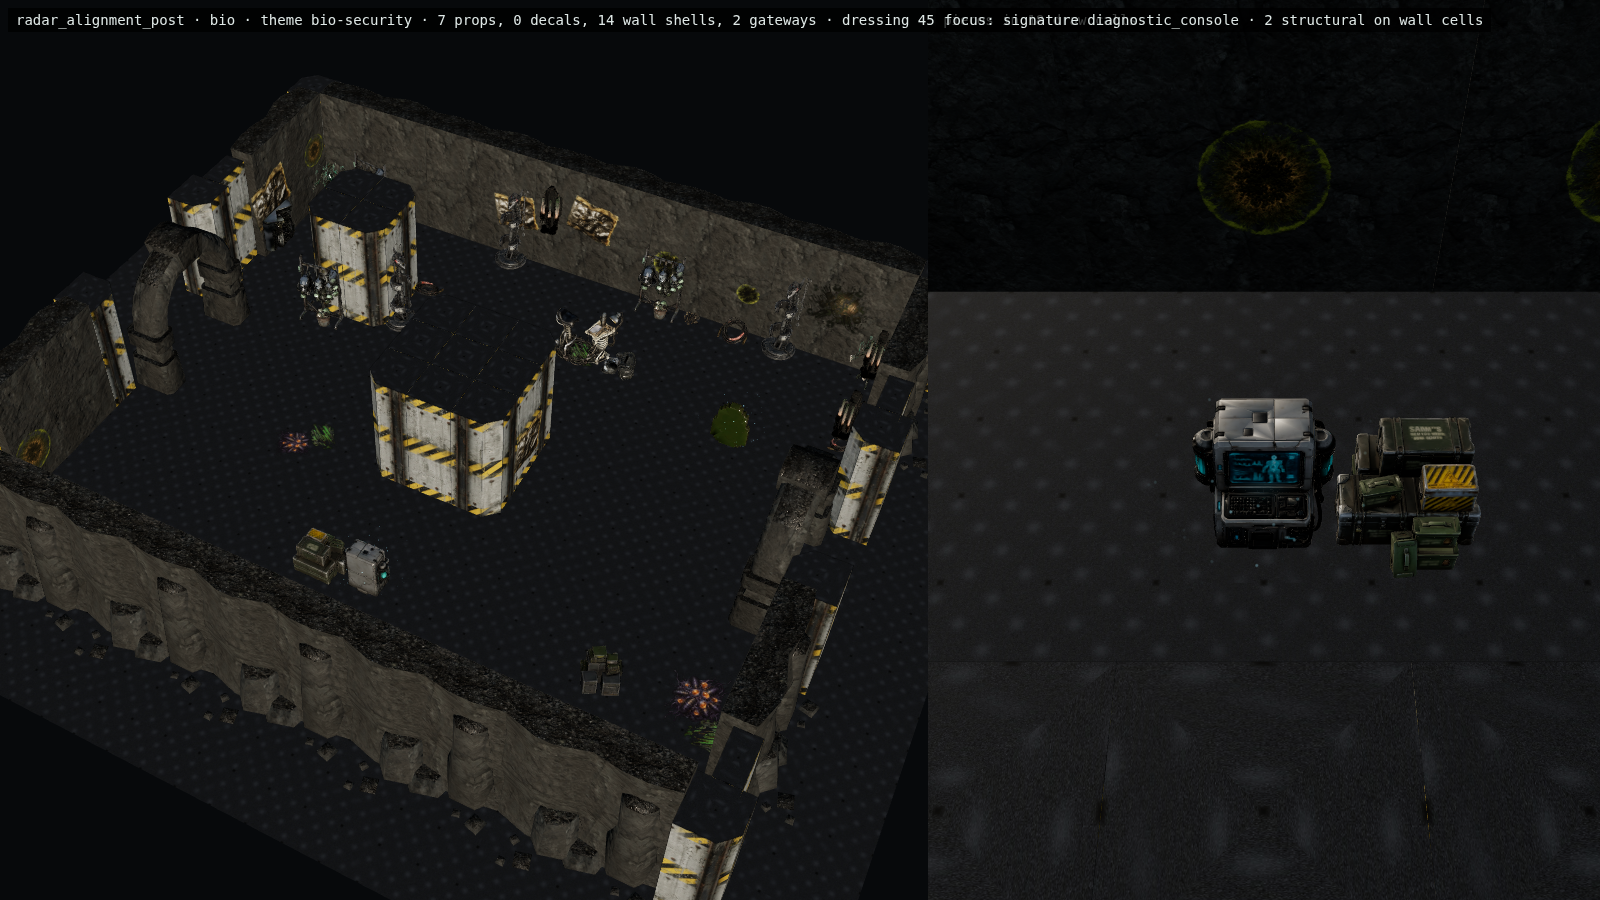
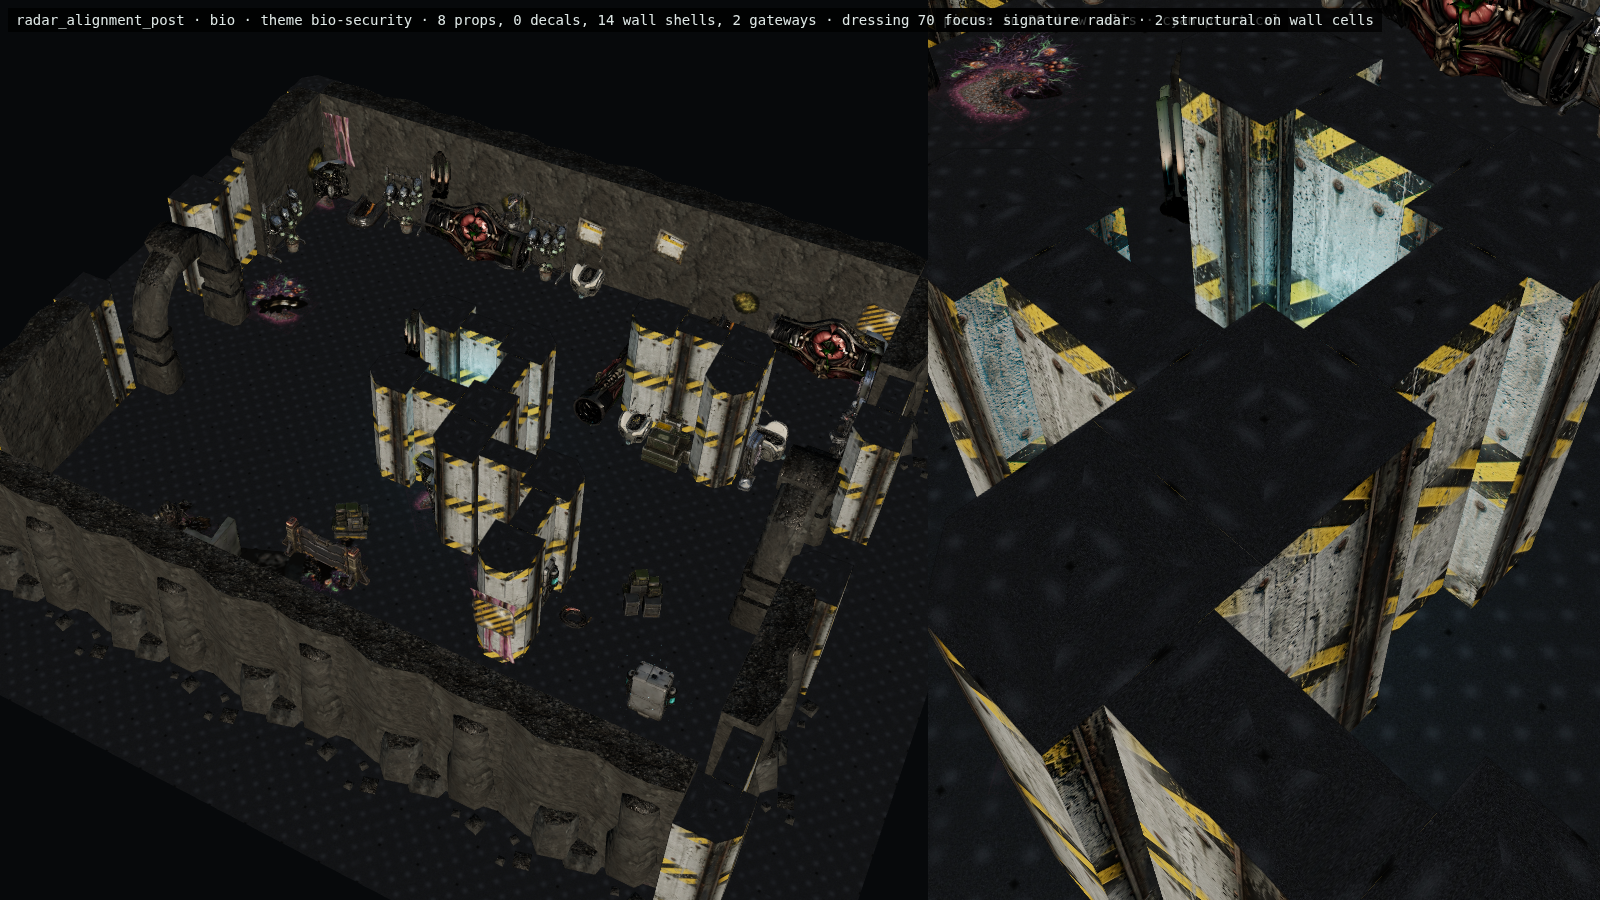
feat(levels): turn radar post into a calibration court

diff --git a/src/data/roomBuilds.js b/src/data/roomBuilds.js
@@ -616,9 +616,24 @@ export const ROOM_BUILD_CATALOG = Object.freeze([
         family: 'security',
         themeStyle: 'substation',
         partitionThickness: 0.5,
-        // One central mast block: sightlines stay open all the way round it,
-        // which is what makes the defend-the-console beat readable.
-        pattern: rectRoomPattern(15, 13, [{ x: 6, y: 5, w: 3, h: 3 }, { x: 2, y: 2, w: 2, h: 2 }]),
+        // P2 alignment proof: the west threshold looks straight into the
+        // dish pedestal, while unequal calibration banks peel north and
+        // south around it. Both routes permanently rejoin at the east exit.
+        pattern: authoredRoomPattern([
+            '...............',
+            '...............',
+            '...............',
+            '..........###..',
+            '............#..',
+            '......###......',
+            '........#......',
+            '......###......',
+            '........###....',
+            '..........#....',
+            '..........#....',
+            '...............',
+            '...............'
+        ]),
         sockets: [
             { id: 'entry', side: 'w', width: 3, required: true },
             { id: 'maintenanceExit', side: 'e', width: 3, required: false }
@@ -627,26 +642,35 @@ export const ROOM_BUILD_CATALOG = Object.freeze([
         tierEligibility: [3, 4],
         biomeEligibility: ['active', 'cryo', 'bio'],
         roles: ['objective', 'defense'],
+        signatureAnchors: [
+            // The radar stands in the open mouth of a C-shaped plinth: its
+            // back wall stops the direct route without swallowing the GLB.
+            { id: 'mast_base', type: 'radar', x: 7, y: 6, blocking: true }
+        ],
         structuralAnchors: [
-            { id: 'mast_base', type: 'prop_cyber_junction', x: 7, y: 6 },
-            { id: 'post_locker', type: 'prop_security_locker', x: 2, y: 2 }
+            { id: 'post_locker', type: 'prop_security_locker', x: 11, y: 3 },
+            { id: 'calibration_bank', type: 'prop_cyber_junction', x: 10, y: 9 }
         ],
         // MANDATORY_SHIP_GOALS radarNode -> objectiveAnchorId, exactly.
         interactionAnchors: [
-            { id: 'radar_alignment_console', type: 'prop_diagnostic_console', x: 7, y: 10 },
-            { id: 'post_terminal', type: 'prop_terminal_ruptured', x: 12, y: 3 }
+            { id: 'radar_alignment_console', type: 'prop_diagnostic_console', x: 13, y: 10 },
+            { id: 'post_terminal', type: 'prop_terminal_ruptured', x: 10, y: 2 }
         ],
-        signatureAnchorId: 'radar_alignment_console',
+        signatureAnchorId: 'mast_base',
         compassAnchors: { approach: 'entry', objective: 'radar_alignment_console' },
-        coverZones: [{ x: 5, y: 4, w: 5, h: 5 }],
-        encounterZones: [
-            { id: 'north_approach', x: 3, y: 1, w: 9, h: 3 },
-            { id: 'south_approach', x: 3, y: 9, w: 9, h: 3 }
+        coverZones: [
+            { x: 5, y: 4, w: 5, h: 5 },
+            { x: 9, y: 2, w: 5, h: 3 },
+            { x: 8, y: 8, w: 4, h: 3 }
         ],
-        rewardAnchors: [{ id: 'post_ammo', type: 'prop_ammo_crate_stack', x: 12, y: 10 }],
+        encounterZones: [
+            { id: 'north_approach', x: 3, y: 1, w: 7, h: 4 },
+            { id: 'south_approach', x: 3, y: 8, w: 7, h: 4 }
+        ],
+        rewardAnchors: [{ id: 'post_ammo', type: 'prop_ammo_crate_stack', x: 12, y: 8 }],
         loreAnchors: [],
         hazardZones: [],
-        quietZones: [],
+        quietZones: [{ x: 11, y: 8, w: 4, h: 5 }],
         safeZone: false,
         containmentBounds: { minX: 0, minY: 0, maxX: 14, maxY: 12 },
         presentationVariants: ['intact', 'abandoned', 'infested', 'looted'],

diff --git a/src/roomBuilds.test.js b/src/roomBuilds.test.js
@@ -137,6 +137,51 @@ describe('ROOM_BUILD_CATALOG', () => {
         expect(build.quietZones[0]).toMatchObject({ x: 12, y: 1, w: 5, h: 7 });
     });
 
+    it('turns the radar post into a sightline court with two calibration routes', () => {
+        const build = ROOM_BUILD_CATALOG.find((entry) => entry.id === 'radar_alignment_post');
+        expect(build.pattern).toEqual([
+            '...............',
+            '...............',
+            '...............',
+            '..........###..',
+            '............#..',
+            '......###......',
+            '........#......',
+            '......###......',
+            '........###....',
+            '..........#....',
+            '..........#....',
+            '...............',
+            '...............'
+        ]);
+        const approach = computeApproachPoint(build);
+        const dishThreshold = { x: 7, y: 6 };
+        const console = { x: 13, y: 10 };
+        const exit = { x: 14, y: 6 };
+        const northCrossing = new Set(Array.from({ length: 5 }, (_, y) => `7,${y}`));
+        const southCrossing = new Set(Array.from({ length: 5 }, (_, offset) => `7,${offset + 8}`));
+        expect(approach).toEqual({ x: 2, y: 6 });
+        expect(shortestPatternPath(build.pattern, approach, dishThreshold)).toBe(5);
+        expect(shortestPatternPath(build.pattern, approach, console, northCrossing)).toBeLessThan(Infinity);
+        expect(shortestPatternPath(build.pattern, approach, console, southCrossing)).toBeLessThan(Infinity);
+        expect(shortestPatternPath(build.pattern, console, exit)).toBeLessThan(Infinity);
+        expect(build.signatureAnchors).toEqual([
+            expect.objectContaining({ id: 'mast_base', type: 'radar', x: 7, y: 6, blocking: true })
+        ]);
+        expect(build.structuralAnchors).toEqual(expect.arrayContaining([
+            expect.objectContaining({ id: 'post_locker', x: 11, y: 3 }),
+            expect.objectContaining({ id: 'calibration_bank', x: 10, y: 9 })
+        ]));
+        expect(build.structuralAnchors.every((anchor) => build.pattern[anchor.y][anchor.x] === '#')).toBe(true);
+        expect(build.interactionAnchors).toEqual(expect.arrayContaining([
+            expect.objectContaining({ id: 'radar_alignment_console', x: 13, y: 10 }),
+            expect.objectContaining({ id: 'post_terminal', x: 10, y: 2 })
+        ]));
+        expect(build.rewardAnchors[0]).toMatchObject({ id: 'post_ammo', x: 12, y: 8 });
+        expect(build.signatureAnchorId).toBe('mast_base');
+        expect(build.quietZones[0]).toMatchObject({ x: 11, y: 8, w: 4, h: 5 });
+    });
+
     it('uses the medical P0A proof to create a reveal pivot and supply-side loop', () => {
         const build = ROOM_BUILD_CATALOG.find((entry) => entry.id === 'medical_triage');
         expect(build.pattern).toEqual([

diff --git a/tests/e2e/probes/p2-radar-alignment-gameplay-camera.spec.js b/tests/e2e/probes/p2-radar-alignment-gameplay-camera.spec.js
@@ -1,0 +1,19 @@
+import { test, expect } from '@playwright/test';
+
+// P2 alignment proof: the early dish sightline, unequal calibration banks,
+// protected control and permanent north/south routes must survive rotation.
+for (let rotation = 0; rotation < 4; rotation += 1) {
+    test(`P2 radar alignment game camera — R${rotation}`, async ({ page }) => {
+        await page.setViewportSize({ width: 1600, height: 900 });
+        await page.goto(`/tests/e2e/fixtures/furnished-room-showroom.html?build=radar_alignment_post&biome=active&review=gameplay&rotation=${rotation}`);
+        await page.waitForFunction(() => window.__showroom?.ready === true, null, { timeout: 90_000 });
+        const result = await page.evaluate(() => window.__showroom);
+        expect(result.reviewMode).toBe(true);
+        expect(result.rotation).toBe(rotation);
+        expect(result.cutawayCells).toBeGreaterThan(0);
+        expect(result.props + result.decals).toBeGreaterThan(0);
+        await page.screenshot({
+            path: `docs/reports/assets/furnished-rooms/p2-radar_alignment_post-game-camera-r${rotation}.png`
+        });
+    });
+}

diff --git a/src/anchorPracticalLight.js b/src/anchorPracticalLight.js
@@ -19,7 +19,7 @@ export const ANCHOR_LIGHT_PALETTE = Object.freeze({
 
 // First match wins; cyan before green so a "biomech oxygen" piece reads cold.
 const PALETTE_RULES = Object.freeze([
-    { palette: 'cyan', match: /oxygen|coolant|cryo|o2_|frost|icey|thermal|water_still|medical_bed|tesla_coil|fabricator|cyber_junction/ },
+    { palette: 'cyan', match: /oxygen|coolant|cryo|o2_|frost|icey|thermal|water_still|medical_bed|tesla_coil|fabricator|cyber_junction|radar/ },
     { palette: 'warning', match: /reactor_vent_control|valve_wheel_fused|false_cache|laser_trap|trap_emitter/ },
     { palette: 'amber', match: /reward_vault|lectern|votive|shrine|reliquary|saint|liturgical|candle|barrel_heater|flood_lamp|pheromone_censer|scent_distiller|warmth_hearth|checkpoint_post|wayfinding_totem|seismic_drill|devotion_tree|meat_smoking_rack|pipe_organ_heat_exchanger|ammo_crate/ },
     { palette: 'green', match: /biomech|spore|fungal|hive|flesh|umbilical|alien|incubator|mycelium/ }

diff --git a/src/anchorPracticalLight.test.js b/src/anchorPracticalLight.test.js
@@ -14,6 +14,7 @@ describe('anchor practical light (lived-in world M4)', () => {
         expect(anchorPaletteFor('prop_tesla_coil_node')).toBe('cyan');
         expect(anchorPaletteFor('prop_fabricator_workstation')).toBe('cyan');
         expect(anchorPaletteFor('prop_cyber_junction')).toBe('cyan');
+        expect(anchorPaletteFor('radar')).toBe('cyan');
         expect(anchorPaletteFor('false_cache prop_bunker_supplies')).toBe('warning');
         expect(anchorPaletteFor('prop_laser_trap_emitter')).toBe('warning');
         expect(anchorPaletteFor('reactor_vent_control prop_valve_wheel_fused')).toBe('warning');

diff --git a/docs/planning/n64-architectural-level-design-overhaul-2026-10-10.md b/docs/planning/n64-architectural-level-design-overhaul-2026-10-10.md
@@ -798,10 +798,29 @@ gantry model, whose armor-charge semantics are not a fabrication controller. The
 acknowledge interaction and glow, but it does not drive either stand-in; the engineering bench also
 visually aliases the workstation. Dedicated future press art may move only a vertical ram or
 contained carriage within the obstruction footprint, with bounded sparks, sound, and work-light
-changes. Nothing may sweep into the process lane or change collision. Next flat P2 candidate:
-`radar_alignment_post`; `ring_crossing_landmark` remains a detached progression proof.
+changes. Nothing may sweep into the process lane or change collision.
 
-### 9.6.7 Authored-geometry persistence gate
+### 9.6.7 Lane A P2: radar calibration court
+
+`radar_alignment_post` is the sixth P2 spatial proof. Its west entry now promises an actual
+`radar` GLB in the open mouth of a C-shaped plinth. The back of that plinth blocks the direct line
+to the east exit without hiding the model, forcing unequal north and south calibration arcs. The
+short northern arc reveals the damaged terminal and retained locker rail; the southern arc bends
+behind an L-shaped bank into the mandatory `radar_alignment_console`, ammo reveal, and quiet return
+strip. Both routes remain permanently open and rejoin at `maintenanceExit`. Exact-pattern tests
+pin the dish sightline, preserved anchor IDs, both forced routes, all mounts, and the ship-goal
+objective. Four gameplay-camera/cutaway captures live at
+`docs/reports/assets/furnished-rooms/p2-radar_alignment_post-game-camera-r*.png`.
+
+The radar now owns the cyan focal practical and existing powered ambient FX, but this is not yet a
+working alignment machine. `radar.glb` is one mesh with no animation clips or `HB_*` articulation
+nodes; the diagnostic console acknowledges use but has no room-level link to the mast. Future art
+may isolate an azimuth ring and dish yoke, and a future local controller may add sweep light, sound,
+and dormant/active/resolved colour response. All motion stays over the C-plinth, collision never
+rotates, and neither calibration route may close. This completes the current flat P2 set;
+`ring_crossing_landmark` remains a detached progression proof.
+
+### 9.6.8 Authored-geometry persistence gate
 
 The existing `ROOM_BUILD_VERSION` is only exported; it is not serialized or compared. Neither
 campaign `interiorVersion`, macro `layoutVersion`, nor `WORLD_PLAN_VERSION` pins room-pattern data.
@@ -1182,6 +1201,10 @@ chunk mounts.
   ship-goal console, bench, and plating reward form a protected inspection strip. Exact route and
   four-camera proofs pass. Dedicated press art, bounded ram/carriage motion, and console-to-machine
   linkage remain future work.
+- 2026-10-11: Lane A rebuilt the radar alignment post as a dish-first calibration court. A visible
+  powered radar in a C-plinth splits the west/east axis into unequal calibration arcs; the southern
+  arc conceals the preserved ship-goal console and quiet ammo return. Exact dual-route and
+  four-camera proofs pass. Dish articulation and console-to-mast state binding remain future work.
 - 2026-10-10: Round 2 done (`1b0fce7c`): chasm landmarks plus tactical-map glyphs. Criteria 1,
   3, 4 and 5 met; criterion 2 not met as written, with the reason and the map-based answer in
   §9.10.

diff --git a/docs/planning/world-design-doctrine-n64-lessons-2026-10-10.md b/docs/planning/world-design-doctrine-n64-lessons-2026-10-10.md
@@ -646,8 +646,26 @@ The fabrication console has a real terminal acknowledgement and powered FX, but 
 either gantry. `prop_engineering_bench` also aliases the workstation visually and does not prove a
 separate fabrication station. Future dedicated art may isolate vertical ram heads or contained
 carriages and add sparks, work-light/audio response, and a short local cycle, but no moving part may
-sweep into the process lane and no state may alter collision. The next flat P2 candidate is
-`radar_alignment_post`; the ring crossing remains a detached progression-integration proof.
+sweep into the process lane and no state may alter collision.
+
+`radar_alignment_post` is the sixth P2 spatial proof. The west threshold now looks directly into
+a real `radar` GLB framed by a C-shaped plinth instead of an anonymous central cube. The plinth
+stops the direct west/east walk and splits the room into unequal north and south calibration arcs.
+A short northern branch exposes the damaged terminal and locker rail; the southern branch turns
+behind a second L-shaped bank into the mandatory `radar_alignment_console`, ammo reveal, and quiet
+return strip before rejoining at the east maintenance exit. Tests pin the exact silhouette,
+preserved ship-goal and support IDs, visible dish approach, both independently forced routes, and
+all anchor cells. Four gameplay-camera/cutaway captures live at
+`docs/reports/assets/furnished-rooms/p2-radar_alignment_post-game-camera-r*.png`.
+
+Capability correction: the shipped radar model is a single mesh with no animation clips or
+`HB_*` articulation nodes. It now receives a restrained cyan practical and existing powered ambient
+FX, while both terminals retain their genuine use acknowledgement, but using the alignment console
+does not rotate or resolve the mast. A future local controller may drive a dedicated azimuth ring,
+dish yoke, sweep-light illusion, sound, and dormant/active/resolved colour response entirely within
+the C-plinth footprint. Collision, both calibration routes, and the maintenance exit remain fixed.
+This completes the current flat P2 room set; `ring_crossing_landmark` remains a detached
+progression-integration proof.
 
 ## Greybox process
 
